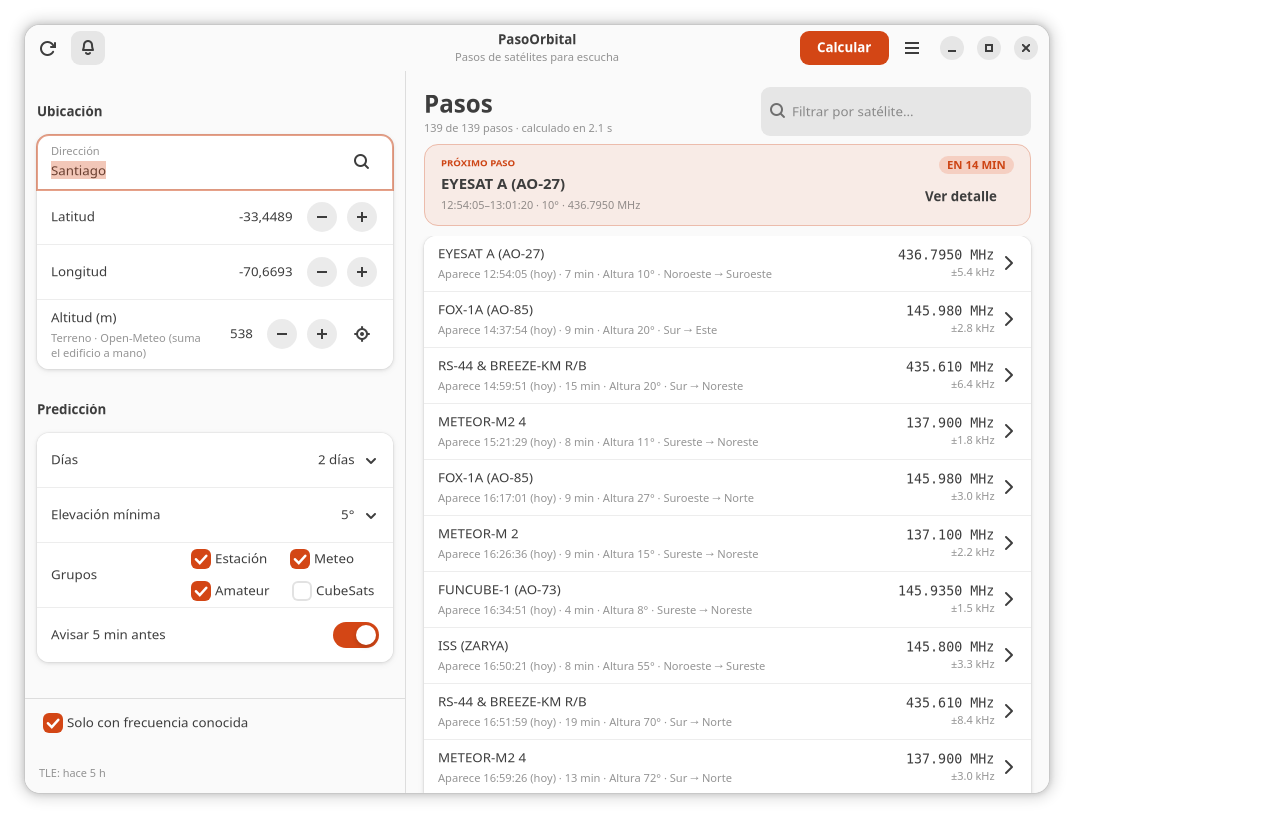
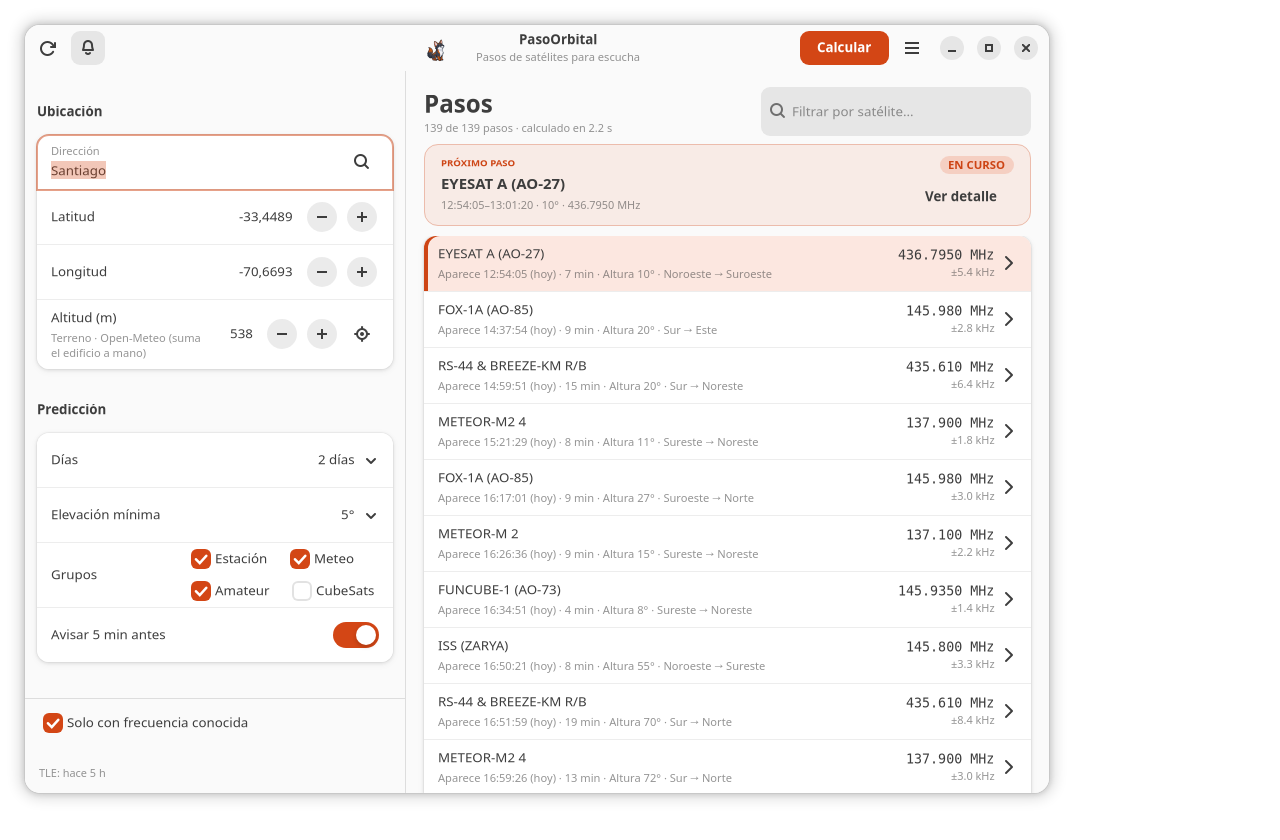
Astro en la interfaz y comando SatDump 1.2.2 (1.7.0)

Changed region(s): [[0.3125, 0.2786, 0.8125, 0.3714], [0.375, 0.031, 0.5, 0.0929], [0.75, 0.1857, 0.7812, 0.2167]]

diff --git a/desktop/pasoorbital_gui/window.py b/desktop/pasoorbital_gui/window.py
@@ -12,7 +12,7 @@ import gi
 
 gi.require_version("Gtk", "4.0")
 gi.require_version("Adw", "1")
-from gi.repository import Adw, Gdk, Gio, GLib, GObject, Gtk  # noqa: E402
+from gi.repository import Adw, Gdk, GdkPixbuf, Gio, GLib, GObject, Gtk  # noqa: E402
 
 from . import __version__, format as fmt  # noqa: E402
 from .data import PassItem, PasoOrbitalData  # noqa: E402
@@ -26,6 +26,9 @@ GROUPS = [
     ("amateur", "Radioaficionados"),
     ("cubesat", "CubeSats"),
 ]
+
+ASSETS_DIR = Path(__file__).with_name("assets")
+ASTRO_FILE = ASSETS_DIR / "astro.png"
 
 
 class PasoOrbitalWindow(Adw.ApplicationWindow):
@@ -64,9 +67,21 @@ class PasoOrbitalWindow(Adw.ApplicationWindow):
     def _build_ui(self) -> None:
         toolbar = Adw.ToolbarView()
         header = Adw.HeaderBar()
-        header.set_title_widget(
+        brand = Gtk.Box(orientation=Gtk.Orientation.HORIZONTAL, spacing=8)
+        if ASTRO_FILE.exists():
+            pixbuf = GdkPixbuf.Pixbuf.new_from_file_at_scale(
+                str(ASTRO_FILE), 34, 34, True
+            )
+            astro = Gtk.Picture.new_for_pixbuf(pixbuf)
+            astro.set_can_shrink(False)
+            astro.set_size_request(34, 34)
+            astro.set_valign(Gtk.Align.CENTER)
+            astro.set_tooltip_text("Astro, mascota de PasoOrbital")
+            brand.append(astro)
+        brand.append(
             Adw.WindowTitle(title="PasoOrbital", subtitle="Pasos de satélites para escucha")
         )
+        header.set_title_widget(brand)
         self.refresh_btn = Gtk.Button(icon_name="view-refresh-symbolic")
         self.refresh_btn.set_tooltip_text("Actualizar TLE")
         self.refresh_btn.connect("clicked", lambda *_: self.refresh_tle())
@@ -317,6 +332,14 @@ class PasoOrbitalWindow(Adw.ApplicationWindow):
 
         self.empty_page = Adw.StatusPage()
         self.empty_page.set_icon_name("applications-science-symbolic")
+        if ASTRO_FILE.exists():
+            try:
+                pixbuf = GdkPixbuf.Pixbuf.new_from_file_at_scale(
+                    str(ASTRO_FILE), 256, 256, True
+                )
+                self.empty_page.set_paintable(Gdk.Texture.new_for_pixbuf(pixbuf))
+            except GLib.Error:
+                pass
         self.empty_page.set_title("Sin pasos todavía")
         self.empty_page.set_description("Configura tu ubicación y pulsa «Calcular pasos».")
         self.stack.add_named(self.empty_page, "empty")
@@ -1205,6 +1228,7 @@ class PasoOrbitalWindow(Adw.ApplicationWindow):
                 "DeepSeek Harness (deepseek-flash)",
             ],
             documenters=["DeepSeek Harness (deepseek-flash)"],
+            artists=["Astro, mascota de PasoOrbital"],
             copyright="© 2026 Marcos Matamala Fernandez",
             version=__version__,
             license_type=Gtk.License.MIT_X11,

diff --git a/desktop/pasoorbital_gui/format.py b/desktop/pasoorbital_gui/format.py
@@ -166,9 +166,9 @@ def command_for(channel: dict, item: PassItem) -> str:
         )
     if "LRPT" in mode:
         return (
-            "# LRPT con SatDump (Ctrl+C para terminar)\n"
+            "# LRPT con SatDump 1.2.2 (Ctrl+C para terminar)\n"
             f"satdump live meteor_m2-x_lrpt ./{slug}-lrpt --source rtlsdr \\\n"
-            f"  --frequency {lrpt_mhz}e6 --samplerate 2.4e6 --gain 40"
+            f"  --frequency {lrpt_mhz}e6 --samplerate 2.4e6 --gain 30"
         )
     if "APRS" in mode:
         return (

diff --git a/pasoorbital/geo.py b/pasoorbital/geo.py
@@ -15,7 +15,7 @@ import urllib.parse
 import urllib.request
 from pathlib import Path
 
-USER_AGENT = "pasoorbital/1.6 (herramienta local de prediccion de pasos)"
+USER_AGENT = "pasoorbital/1.7 (herramienta local de prediccion de pasos)"
 NOMINATIM = "https://nominatim.openstreetmap.org/search"
 PHOTON = "https://photon.komoot.io/api/"
 ELEVATION = "https://api.open-meteo.com/v1/elevation"

diff --git a/app.py b/app.py
@@ -302,7 +302,7 @@ def api_elevation(query: dict) -> dict:
 
 
 class Handler(BaseHTTPRequestHandler):
-    server_version = "PasoOrbital/1.6"
+    server_version = "PasoOrbital/1.7"
     protocol_version = "HTTP/1.1"
 
     # ------------------------------------------------------------- helpers

diff --git a/pasoorbital/__init__.py b/pasoorbital/__init__.py
@@ -1,3 +1,3 @@
 """PasoOrbital: predicción de pasos de satélites para escucha radio."""
 
-__version__ = "1.6.0"
+__version__ = "1.7.0"

diff --git a/desktop/pasoorbital_gui/__init__.py b/desktop/pasoorbital_gui/__init__.py
@@ -1,3 +1,3 @@
 """PasoOrbital para GNOME."""
 
-__version__ = "1.6.0"
+__version__ = "1.7.0"

diff --git a/DESARROLLO.md b/DESARROLLO.md
@@ -2,7 +2,7 @@
 
 > **Para retomar el proyecto sin perder contexto.**
 > Autores: Marcos Matamala Fernandez y DeepSeek Harness (deepseek-flash).
-> Última actualización: 18 de octubre de 2026 · Versión: 1.6 (pantalla principal)
+> Última actualización: 18 de octubre de 2026 · Versión: 1.7 (Astro y SatDump 1.2.2)
 
 ---
 
@@ -47,6 +47,7 @@ Aplicación local (servidor Python + interfaz web) que calcula **qué satélites
 - [x] Aviso de escritorio 5 minutos antes y resaltado de pasos próximos o en curso.
 - [x] Detalle modal con pestañas Resumen, Radio y Cielo, sin scroll, y gráfico de elevación.
 - [x] Tarjeta de próximo paso, campana de avisos siempre visible y notificación que abre el detalle.
+- [x] Astro en cabecera y estado vacío; comandos LRPT ajustados a SatDump 1.2.2.
 
 ---
 
@@ -410,6 +411,7 @@ pasoorbital.example.com {
 | Oct 2026 | Corregido el comando de escucha LRPT de SatDump: el primer argumento es el pipeline (`meteor_m2-x_lrpt`), el segundo la carpeta de salida. |
 | Oct 2026 | Tabla: fechas relativas («hoy», «mañana», «Lunes 19 oct»), duración sin segundos y direcciones con nombre completo («Sur → Noreste»). |
 | Oct 2026 | Tabla simplificada: AOS pasa a «Aparece», se elimina la columna LOS (basta con Aparece + Duración) y el detalle usa «Punto más alto», «Termina» y «Dirección». |
+| Oct 2026 | Versión 1.7: Astro en la interfaz y comandos LRPT para SatDump 1.2.2. |
 | Oct 2026 | Versión 1.6: próximo paso destacado, campana de avisos y notificación que abre el detalle. |
 | Oct 2026 | Versión 1.5.1: corregidos los iconos rotos de las pestañas del detalle. |
 | Oct 2026 | Versión 1.5: detalle modal con pestañas Resumen, Radio y Cielo; sin scroll y con gráfico de elevación. |
@@ -462,7 +464,7 @@ PasoOrbital sin navegador ni servidor HTTP.
 | `desktop/pasoorbital_gui/format.py` | Fechas relativas, duración, resumen, comandos e ICS. |
 | `desktop/pasoorbital_gui/skyplot.py` | Gráfico polar con Cairo. |
 | `desktop/pasoorbital_gui/style.css` | Estilos sobre libadwaita. |
-| `desktop/build_deb.sh` | Genera `desktop/dist/pasoorbital_1.6.0-1_all.deb`. |
+| `desktop/build_deb.sh` | Genera `desktop/dist/pasoorbital_1.7.0-1_all.deb`. |
 | `desktop/pasoorbital.desktop`, icono, metainfo y manpage | Integración con GNOME. |
 
 - **Dependencias del paquete:** `python3-gi`, `gir1.2-gtk-4.0`, `gir1.2-adw-1`,

diff --git a/README.md b/README.md
@@ -30,6 +30,8 @@ TLE para poder predecir sin conexión.
   resumen como pestaña principal.
 - **Próximo paso** destacado en la pantalla principal, con cuenta atrás y acceso
   directo al detalle; campana de avisos siempre visible en la cabecera.
+- **Astro**, la mascota, aparece en la cabecera y en el estado vacío.
+- Comandos LRPT ajustados a **SatDump 1.2.2** (gain 30).
 - **Predicción de pasos** para 1, 2, 3 o 7 días, con elevación mínima configurable.
 - **Catálogo** de estaciones espaciales, satélites meteorológicos, radioaficionados
   (AMSAT) y CubeSats, descargado de CelesTrak y cacheado 6 horas.
@@ -48,9 +50,12 @@ TLE para poder predecir sin conexión.
 <p align="center"><img src="docs/astro.png" alt="Astro, zorro de Darwin y mascota de PasoOrbital" width="220"></p>
 
 **Astro** es un zorro de Darwin (*Lycalopex fulvipes*) que mira al cielo en busca
-de satélites. Es la mascota oficial de PasoOrbital. La especificación de marca
-está en [docs/astro.yaml](docs/astro.yaml); hay versiones en
+de satélites. Es la mascota oficial de PasoOrbital y aparece en la cabecera y en el estado
+vacío de la app. La especificación de marca está en
+[docs/astro.yaml](docs/astro.yaml); hay versiones en
 [512 px](docs/astro-512.png) y [avatar](docs/astro-avatar.png).
+
+<p align="center"><img src="docs/desktop-astro.png" alt="Astro en el estado vacío de PasoOrbital" width="520"></p>
 
 Ilustración final a partir de la referencia visual aportada por Marcos
 Matamala Fernandez. La versión vectorial simplificada y editable está en
@@ -99,7 +104,7 @@ navegador, empaquetada como `.deb`.
 ```bash
 cd desktop
 ./build_deb.sh
-sudo apt install ./dist/pasoorbital_1.6.0-1_all.deb
+sudo apt install ./dist/pasoorbital_1.7.0-1_all.deb
 pasoorbital-gui
 ```
 
@@ -111,8 +116,8 @@ pasoorbital-gui
 > desde allí:
 >
 > ```bash
-> cp desktop/dist/pasoorbital_1.6.0-1_all.deb /tmp/
-> sudo apt install /tmp/pasoorbital_1.6.0-1_all.deb
+> cp desktop/dist/pasoorbital_1.7.0-1_all.deb /tmp/
+> sudo apt install /tmp/pasoorbital_1.7.0-1_all.deb
 > ```
 
 Depende de `python3-gi`, `gir1.2-gtk-4.0`, `gir1.2-adw-1` (1.6 o superior),

diff --git a/desktop/README.md b/desktop/README.md
@@ -6,14 +6,16 @@ Aplicación de escritorio en **GTK4 + libadwaita** que reutiliza el motor de
 PasoOrbital (`sgp4`, TLE de CelesTrak, frecuencias y geocodificación) sin depender
 del navegador. Resalta los pasos que aparecen en los próximos 5 minutos, avisa
 con una notificación del escritorio que abre el detalle del paso. La pantalla
-principal destaca el próximo paso y el detalle usa pestañas **Resumen**, **Radio**
-y **Cielo**, sin scroll.
+principal destaca el próximo paso, muestra a **Astro** en la cabecera y el
+detalle usa pestañas **Resumen**, **Radio** y **Cielo**, sin scroll. Los comandos
+LRPT están ajustados a SatDump 1.2.2.
 
 ## Requisitos
 
 - Ubuntu 24.10 o superior / Debian 13 o superior (libadwaita 1.6+).
-- `python3-gi`, `gir1.2-gtk-4.0`, `gir1.2-adw-1`, `python3-numpy`,
-  `python3-sgp4` (este último está en el repositorio `universe` de Ubuntu).
+- `python3-gi`, `gir1.2-gtk-4.0`, `gir1.2-gdkpixbuf-2.0`, `gir1.2-adw-1`,
+  `python3-numpy`, `python3-sgp4` (este último está en el repositorio `universe`
+  de Ubuntu).
 - Para construir el `.deb`: `dpkg-deb` (paquete `dpkg-dev`).
 
 ## Construir el paquete
@@ -23,12 +25,12 @@ cd desktop
 ./build_deb.sh
 ```
 
-El paquete queda en `desktop/dist/pasoorbital_1.6.0-1_all.deb`.
+El paquete queda en `desktop/dist/pasoorbital_1.7.0-1_all.deb`.
 
 ## Instalar
 
 ```bash
-sudo apt install ./desktop/dist/pasoorbital_1.6.0-1_all.deb
+sudo apt install ./desktop/dist/pasoorbital_1.7.0-1_all.deb
 ```
 
 > **Aviso de apt al instalar un `.deb` local:** si aparece
@@ -39,8 +41,8 @@ sudo apt install ./desktop/dist/pasoorbital_1.6.0-1_all.deb
 > desde allí:
 >
 > ```bash
-> cp dist/pasoorbital_1.6.0-1_all.deb /tmp/
-> sudo apt install /tmp/pasoorbital_1.6.0-1_all.deb
+> cp dist/pasoorbital_1.7.0-1_all.deb /tmp/
+> sudo apt install /tmp/pasoorbital_1.7.0-1_all.deb
 > ```
 
 

diff --git a/CHANGELOG.md b/CHANGELOG.md
@@ -3,6 +3,17 @@
 Formato basado en [Keep a Changelog](https://keepachangelog.com/es-ES/1.1.0/)
 y versionado [SemVer](https://semver.org/lang/es/).
 
+## [1.7.0] - 2026-10-18
+
+### Añadido
+
+- **Astro** en la cabecera de la ventana y en el estado vacío.
+- Crédito de Astro en el diálogo **Acerca de**.
+
+### Cambiado
+
+- Comando LRPT para **SatDump 1.2.2**, con ganancia inicial de 30 dB.
+
 ## [1.6.0] - 2026-10-18
 
 ### Añadido

diff --git a/SECURITY.md b/SECURITY.md
@@ -2,7 +2,7 @@
 
 ## Versiones soportadas
 
-La rama principal y la última versión publicada (1.6.x) reciben correcciones
+La rama principal y la última versión publicada (1.7.x) reciben correcciones
 de seguridad.
 
 ## Cómo reportar
